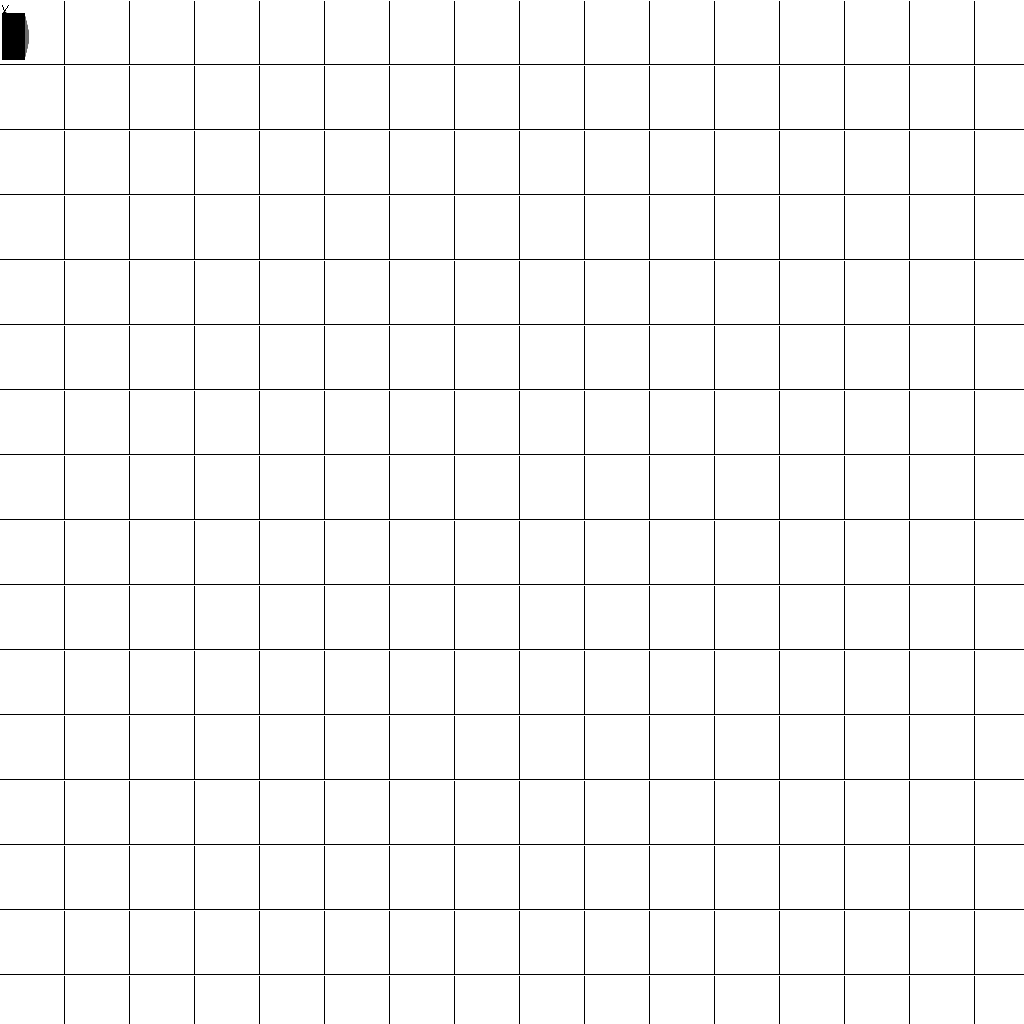
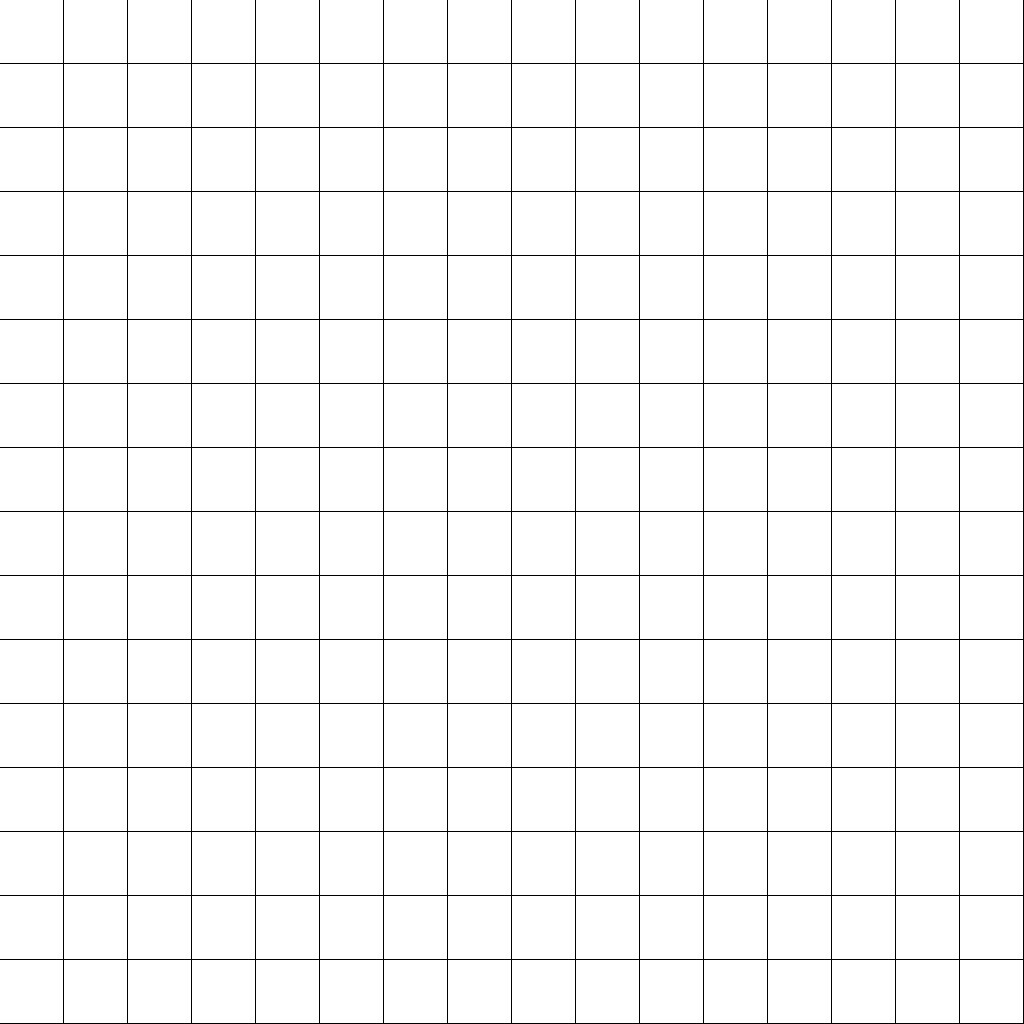
Added Building Generation, game now starts with a building. Also added placeholder building sprites; ZAG Version 0.3.4.0

Changed region(s): [[0.0, 0.0, 0.0312, 0.0625]]

diff --git a/src/com/RoguePanda/ZAG/gameUpdates.java b/src/com/RoguePanda/ZAG/gameUpdates.java
@@ -214,16 +214,16 @@ public class gameUpdates implements Runnable {
         double npx = player.velocity.getX(), npy = player.velocity.getY();
         for (Entity en : gui.currentGame.currentLevel.entities) {
             if (en.clippable && player.boundingBox.intersects(en.boundingBox)) {
-                if (en.boundingBox.getCenterX() > player.boundingBox.getCenterX()) {
+                if (en.boundingBox.getCenterX() >= player.boundingBox.getCenterX()) {
                     if (player.velocity.getX() > 0) {
                         npx = 0;
                     }
-                } else if (en.boundingBox.getCenterX() < player.boundingBox.getCenterX()) {
+                } else if (en.boundingBox.getCenterX() <= player.boundingBox.getCenterX()) {
                     if (player.velocity.getX() < 0) {
                         npx = 0;
                     }
                 }
-                if (en.boundingBox.getCenterY() > player.boundingBox.getCenterY()) {
+                if (en.boundingBox.getMinY() >= player.boundingBox.getMaxY()) {
                     if (player.velocity.getY() > 0) {
                         npy = 0;
                         player.falling = false;
@@ -238,16 +238,16 @@ public class gameUpdates implements Runnable {
             for (Entity en : gui.currentGame.currentLevel.entities) {
                 double nex = e.velocity.getX(), ney = e.velocity.getY();
                 if (en.clippable && e.boundingBox.intersects(en.boundingBox)) {
-                    if (en.boundingBox.getCenterX() > e.boundingBox.getCenterX()) {
+                    if (en.boundingBox.getCenterX() >= e.boundingBox.getCenterX()) {
                         if (e.velocity.getX() > 0) {
                             nex = 0;
                         }
-                    } else if (en.boundingBox.getCenterX() < e.boundingBox.getCenterX()) {
+                    } else if (en.boundingBox.getCenterX() <= e.boundingBox.getCenterX()) {
                         if (e.velocity.getX() < 0) {
                             nex = 0;
                         }
                     }
-                    if (en.boundingBox.getCenterY() > e.boundingBox.getCenterY()) {
+                    if (en.boundingBox.getCenterY() >= e.boundingBox.getCenterY()) {
                         if (e.velocity.getY() > 0) {
                             ney = 0;
                             e.falling = false;

diff --git a/src/com/RoguePanda/ZAG/GameCanvas.java b/src/com/RoguePanda/ZAG/GameCanvas.java
@@ -22,6 +22,7 @@ public class GameCanvas extends JPanel {
     private static final long serialVersionUID = 1L;
     CardGUI cgui;
     BuildingObject bo;
+    Building b;
 
     /**
      *
@@ -30,6 +31,15 @@ public class GameCanvas extends JPanel {
     GameCanvas(CardGUI aThis) {
         cgui = aThis;
         bo = new BuildingObject(0, new Point(400, 320));
+        int[][] chunks = new int[4][4];
+        for (int x = 0; x < 4; x++) {
+            for (int y = 0; y < 4; y++) {
+                chunks[x][y] = 0;
+            }
+        }
+        chunks[2][1] = 1;
+        b = new Building(chunks, null, new Point(500, 0), cgui.currentGame.currentLevel);
+        cgui.currentGame.currentLevel.buildings.add(b);
         this.setSize(1600, 600);
         this.setBounds(0, 0, 1600, 600);
         this.addMouseListener(new MouseListener() {
@@ -63,13 +73,13 @@ public class GameCanvas extends JPanel {
             //Death Screen
         }
         try {
+            g.drawImage(cgui.test, 0, 100, null);
             try {
                 for (Building b : cgui.currentGame.currentLevel.buildings) {
                     g.drawImage(b.outsideSprite, b.location.x, b.location.y, null);
                 }
             } catch (Exception be) {
             }
-            g.drawImage(cgui.test, 0, 100, null);
             if (cgui.currentGame.player.dead) {
                 g.setFont(new java.awt.Font("Tahoma", 0, 36));
                 g.drawString("GAME OVER", 325, 300);
@@ -98,6 +108,11 @@ public class GameCanvas extends JPanel {
                         }
                     }
                 } catch (Exception bu) {
+                }
+                try {
+                    g.drawRect(b.location.x, b.location.y, b.outsideSprite.getWidth(), b.outsideSprite.getHeight());
+                } catch (Exception e) {
+                    e.printStackTrace();
                 }
                 g.setColor(Color.black);
                 g.fillRect(0, 400, 100, 100);

diff --git a/src/com/RoguePanda/ZAG/Building.java b/src/com/RoguePanda/ZAG/Building.java
@@ -1,5 +1,7 @@
 package com.RoguePanda.ZAG;
 
+import com.RoguePanda.Library.ImageManipulator;
+import java.awt.Graphics;
 import java.awt.Point;
 import java.awt.image.BufferedImage;
 
@@ -10,10 +12,32 @@ import java.awt.image.BufferedImage;
  */
 class Building {
 
+    final int size = 128;
     Point location;
     BufferedImage insideSprite;
     BufferedImage outsideSprite;
+    Block level;
 
-    Building(int[][] chunks, int sheet, BuildingObject[] bo, Point loc) {
+    Building(int[][] chunks, BuildingObject[] bo, Point loc, Block lev) {
+        level = lev;
+        location = loc;
+        outsideSprite = new BufferedImage(size * chunks[0].length, size * chunks.length, BufferedImage.TYPE_INT_ARGB);
+        Graphics osg = outsideSprite.getGraphics();
+        for (int x = 0; x < chunks[0].length; x++) {
+            for (int y = 0; y < chunks.length; y++) {
+                osg.drawImage(ImageManipulator.scaleImage(
+                        ImageManipulator.selectFromSheet(
+                        level.buildingsheet,
+                        chunks[x][y],
+                        128,
+                        128),
+                        size,
+                        size),
+                        size * x,
+                        size * y,
+                        null);
+            }
+        }
+        location.y = 590 - size*chunks.length-(size-28);
     }
 }

diff --git a/src/com/RoguePanda/ZAG/Block.java b/src/com/RoguePanda/ZAG/Block.java
@@ -35,6 +35,10 @@ public class Block {
      */
     BufferedImage objectsheet;
     /**
+     * The image that holds sprites for buildings
+     */
+    BufferedImage buildingsheet;
+    /**
      * The image that holds sprites for a simple zombie
      */
     BufferedImage simplezombie;
@@ -50,6 +54,7 @@ public class Block {
         try {
             itemsheet = ImageIO.read(getClass().getResource("/com/RoguePanda/ZAG/Images/itemSheet0.png"));
             objectsheet = ImageIO.read(getClass().getResource("/com/RoguePanda/ZAG/Images/objectSheet.png"));
+            buildingsheet = ImageIO.read(getClass().getResource("/com/RoguePanda/ZAG/Images/buildingsheet.png"));
             simplezombie = ImageIO.read(getClass().getResource("/com/RoguePanda/ZAG/Images/BasicZombie1.png"));
         } catch (IOException ex) {
             Logger.getLogger(Block.class.getName()).log(Level.SEVERE, null, ex);

diff --git a/src/com/RoguePanda/ZAG/AIObject.java b/src/com/RoguePanda/ZAG/AIObject.java
@@ -34,8 +34,8 @@ public class AIObject extends AI {
         boolean ret = true;
         switch (go.objectID) {
             case 0:
-                go.velocity.setLocation((int) (Math.random() * 7) - 3, -((int) (Math.random() * 7) - 3));
-                if (counter > 2) {
+                //go.velocity.setLocation((int) (Math.random() * 7) - 3, -((int) (Math.random() * 7) - 3));
+                if (counter > 20) {
                     go.objectID = 1;
                     go.spritenumber=1;
                     counter = 0;
@@ -44,7 +44,7 @@ public class AIObject extends AI {
                 }
                 break;
             case 1:
-                if (counter > 2) {
+                if (counter > 20) {
                     counter = 0;
                     go.objectID = 0;
                     go.spritenumber=0;

diff --git a/src/com/RoguePanda/ZAG/BasicZombie.java b/src/com/RoguePanda/ZAG/BasicZombie.java
@@ -43,7 +43,7 @@ public class BasicZombie extends Entity {
         if (rand > .5) {
             tasks.add(new AIWander(this, 1));
         } else {
-            tasks.add(new AIWander(this, .25));
+            tasks.add(new AIWander(this, .5));
         }
         tasks.add(new AIDeathAnimation(this));
     }
